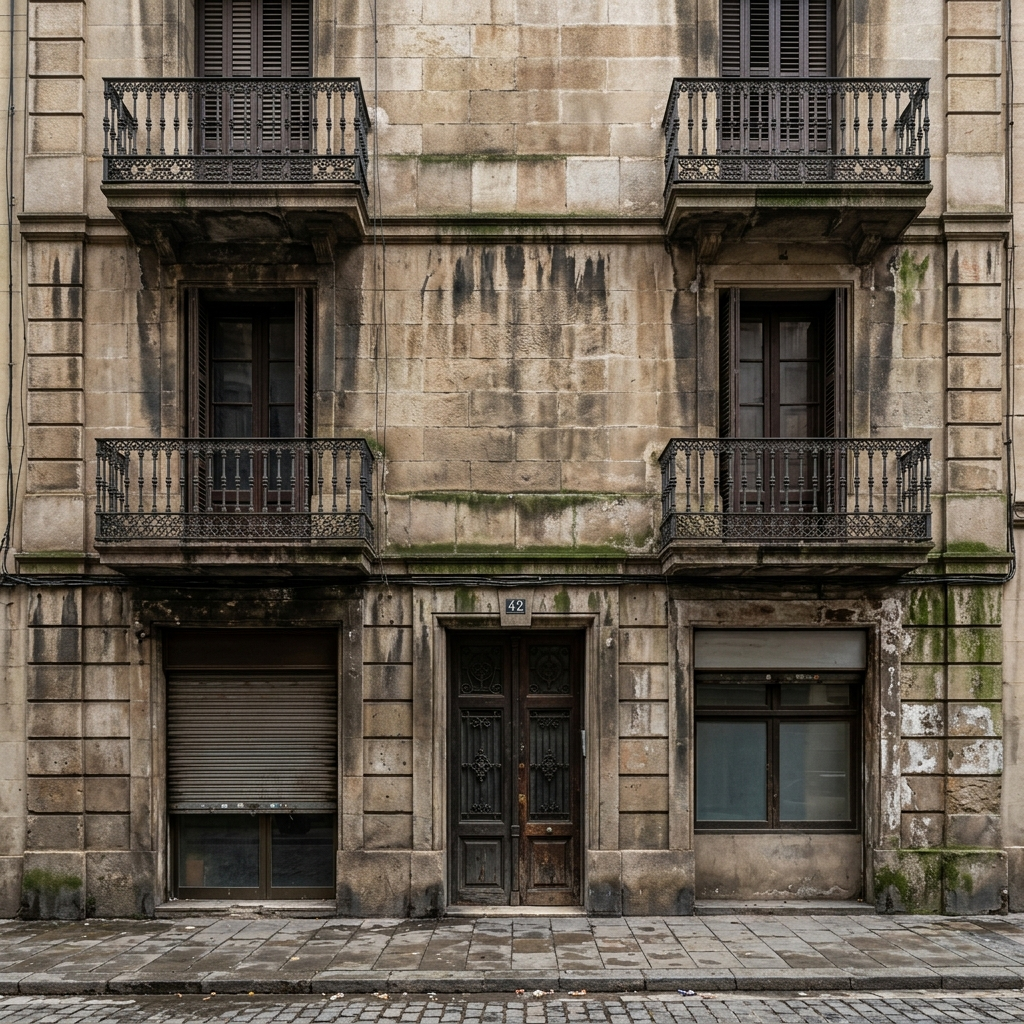
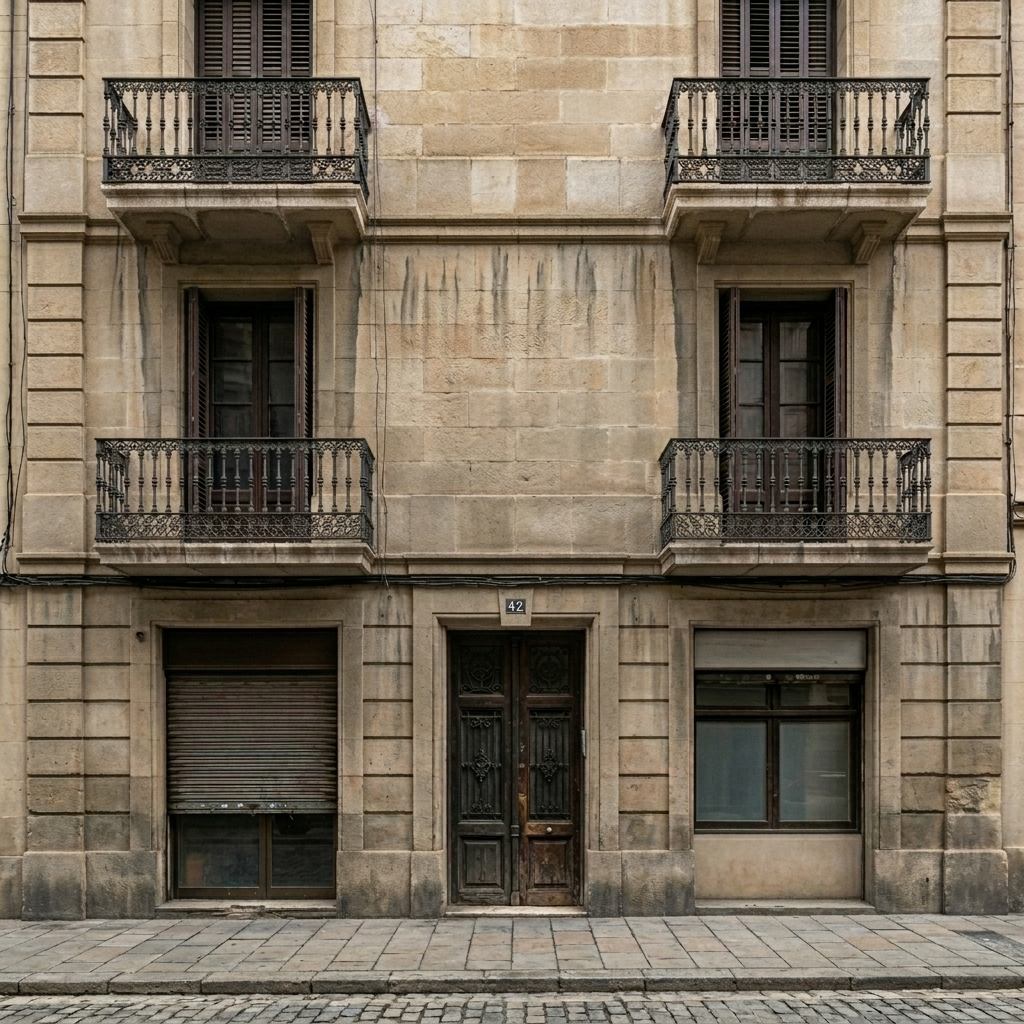
feat: hamburger movil, llamar gratis, hero imagen centrada movil, before/after scroll horizontal movil, fachada sin moho, quotes visuales, CTA overflow fix

diff --git a/src/routes/index.tsx b/src/routes/index.tsx
@@ -113,6 +113,8 @@ function Logo({ white = false }: { white?: boolean }) {
 
 function Nav() {
   const [scrolled, setScrolled] = useState(false);
+  const [mobileOpen, setMobileOpen] = useState(false);
+
   useEffect(() => {
     const onScroll = () => setScrolled(window.scrollY > 24);
     onScroll();
@@ -120,31 +122,79 @@ function Nav() {
     return () => window.removeEventListener("scroll", onScroll);
   }, []);
 
+  const navLinks = [
+    { href: "#servicios", label: "Servicios" },
+    { href: "#proyectos", label: "Proyectos" },
+    { href: "#proceso", label: "Proceso" },
+    { href: "#cobertura", label: "Cobertura" },
+    { href: "#contacto", label: "Contacto" },
+  ];
+
   return (
-    <header className={`fixed top-0 inset-x-0 z-50 transition-all duration-500 ${scrolled ? "bg-white/90 backdrop-blur-xl border-b border-border shadow-soft" : "bg-transparent"}`}>
-      <div className="max-w-7xl mx-auto px-6 lg:px-10 h-20 flex items-center justify-between">
-        <a href="#top">
-          <Logo white={!scrolled} />
-        </a>
-        <nav className={`hidden md:flex items-center gap-9 text-sm font-semibold ${scrolled ? "text-ink" : "text-white"}`}>
-          <a href="#servicios" className="hover:text-electric transition-colors">Servicios</a>
-          <a href="#proyectos" className="hover:text-electric transition-colors">Proyectos</a>
-          <a href="#proceso" className="hover:text-electric transition-colors">Proceso</a>
-          <a href="#cobertura" className="hover:text-electric transition-colors">Cobertura</a>
-          <a href="#contacto" className="hover:text-electric transition-colors">Contacto</a>
-        </nav>
-        {/* Always solid blue CTA button */}
-        <a
-          href={PHONE_HREF}
-          className="hidden sm:inline-flex items-center gap-2 pl-4 pr-5 h-11 rounded-full bg-electric text-white text-sm font-bold shadow-glow hover:shadow-elev hover:-translate-y-0.5 transition-all"
-        >
-          <span className="w-7 h-7 rounded-full bg-white/20 grid place-items-center">
-            <svg width="13" height="13" viewBox="0 0 24 24" fill="none" stroke="currentColor" strokeWidth="2.5" strokeLinecap="round" strokeLinejoin="round"><path d="M22 16.92v3a2 2 0 0 1-2.18 2 19.86 19.86 0 0 1-8.63-3.07 19.5 19.5 0 0 1-6-6A19.86 19.86 0 0 1 2.12 4.18 2 2 0 0 1 4.11 2h3a2 2 0 0 1 2 1.72c.13.96.36 1.9.7 2.81a2 2 0 0 1-.45 2.11L8.09 9.91a16 16 0 0 0 6 6l1.27-1.27a2 2 0 0 1 2.11-.45c.91.34 1.85.57 2.81.7A2 2 0 0 1 22 16.92Z" /></svg>
-          </span>
-          Llamar ahora
-        </a>
-      </div>
-    </header>
+    <>
+      <header className={`fixed top-0 inset-x-0 z-50 transition-all duration-500 ${scrolled || mobileOpen ? "bg-white/95 backdrop-blur-xl border-b border-border shadow-soft" : "bg-transparent"}`}>
+        <div className="max-w-7xl mx-auto px-5 lg:px-10 h-18 md:h-20 flex items-center justify-between gap-4">
+          <a href="#top" onClick={() => setMobileOpen(false)}>
+            <Logo white={!scrolled && !mobileOpen} />
+          </a>
+
+          {/* Desktop nav */}
+          <nav className={`hidden md:flex items-center gap-9 text-sm font-semibold ${scrolled ? "text-ink" : "text-white"}`}>
+            {navLinks.map(l => (
+              <a key={l.href} href={l.href} className="hover:text-electric transition-colors">{l.label}</a>
+            ))}
+          </nav>
+
+          <div className="flex items-center gap-3">
+            {/* CTA */}
+            <a
+              href={PHONE_HREF}
+              className="inline-flex items-center gap-2 pl-3.5 pr-4 h-10 md:h-11 rounded-full bg-electric text-white text-sm font-bold shadow-glow hover:shadow-elev hover:-translate-y-0.5 transition-all"
+            >
+              <span className="w-6 h-6 rounded-full bg-white/20 grid place-items-center">
+                <svg width="12" height="12" viewBox="0 0 24 24" fill="none" stroke="currentColor" strokeWidth="2.5" strokeLinecap="round" strokeLinejoin="round"><path d="M22 16.92v3a2 2 0 0 1-2.18 2 19.86 19.86 0 0 1-8.63-3.07 19.5 19.5 0 0 1-6-6A19.86 19.86 0 0 1 2.12 4.18 2 2 0 0 1 4.11 2h3a2 2 0 0 1 2 1.72c.13.96.36 1.9.7 2.81a2 2 0 0 1-.45 2.11L8.09 9.91a16 16 0 0 0 6 6l1.27-1.27a2 2 0 0 1 2.11-.45c.91.34 1.85.57 2.81.7A2 2 0 0 1 22 16.92Z" /></svg>
+              </span>
+              <span className="hidden sm:inline">Llamar gratis</span>
+              <span className="sm:hidden">Llamar</span>
+            </a>
+
+            {/* Hamburger — mobile only */}
+            <button
+              onClick={() => setMobileOpen(o => !o)}
+              aria-label="Abrir menú"
+              className={`md:hidden flex flex-col justify-center items-center w-10 h-10 rounded-xl gap-1.5 transition-all ${scrolled || mobileOpen ? "bg-mist" : "bg-white/15 backdrop-blur-sm"}`}
+            >
+              <span className={`block w-5 h-0.5 rounded-full transition-all duration-300 ${scrolled || mobileOpen ? "bg-navy" : "bg-white"} ${mobileOpen ? "rotate-45 translate-y-2" : ""}`} />
+              <span className={`block w-5 h-0.5 rounded-full transition-all duration-300 ${scrolled || mobileOpen ? "bg-navy" : "bg-white"} ${mobileOpen ? "opacity-0" : ""}`} />
+              <span className={`block w-5 h-0.5 rounded-full transition-all duration-300 ${scrolled || mobileOpen ? "bg-navy" : "bg-white"} ${mobileOpen ? "-rotate-45 -translate-y-2" : ""}`} />
+            </button>
+          </div>
+        </div>
+
+        {/* Mobile menu dropdown */}
+        <div className={`md:hidden overflow-hidden transition-all duration-400 ease-in-out ${mobileOpen ? "max-h-80 border-t border-border" : "max-h-0"}`}>
+          <nav className="flex flex-col bg-white px-5 py-4 gap-1">
+            {navLinks.map(l => (
+              <a
+                key={l.href}
+                href={l.href}
+                onClick={() => setMobileOpen(false)}
+                className="flex items-center gap-3 px-4 py-3.5 rounded-xl text-navy font-semibold text-base hover:bg-mist hover:text-electric transition-all"
+              >
+                {l.label}
+              </a>
+            ))}
+            <a
+              href={PHONE_HREF}
+              className="mt-2 flex items-center justify-center gap-2 h-12 rounded-xl bg-electric text-white font-bold shadow-glow"
+            >
+              <svg width="16" height="16" viewBox="0 0 24 24" fill="none" stroke="currentColor" strokeWidth="2.5" strokeLinecap="round" strokeLinejoin="round"><path d="M22 16.92v3a2 2 0 0 1-2.18 2 19.86 19.86 0 0 1-8.63-3.07 19.5 19.5 0 0 1-6-6A19.86 19.86 0 0 1 2.12 4.18 2 2 0 0 1 4.11 2h3a2 2 0 0 1 2 1.72c.13.96.36 1.9.7 2.81a2 2 0 0 1-.45 2.11L8.09 9.91a16 16 0 0 0 6 6l1.27-1.27a2 2 0 0 1 2.11-.45c.91.34 1.85.57 2.81.7A2 2 0 0 1 22 16.92Z" /></svg>
+              Llamar gratis · {PHONE}
+            </a>
+          </nav>
+        </div>
+      </header>
+    </>
   );
 }
 
@@ -152,7 +202,12 @@ function Hero() {
   return (
     <section id="top" className="relative min-h-[100svh] flex items-center overflow-hidden">
       <div className="absolute inset-0">
-        <img src={heroImg} alt="Operarios DISET en trabajos verticales sobre fachada de cristal en Barcelona" width={1920} height={1080} className="absolute inset-0 w-full h-full object-cover scale-105" />
+        <img
+          src={heroImg}
+          alt="Operarios DISET en trabajos verticales sobre fachada de cristal en Barcelona"
+          width={1920} height={1080}
+          className="absolute inset-0 w-full h-full object-cover object-[60%_center] md:object-center scale-105"
+        />
         <div className="absolute inset-0 bg-[linear-gradient(110deg,rgba(13,59,102,0.92)_0%,rgba(13,59,102,0.75)_45%,rgba(13,59,102,0.25)_100%)]" />
         <div className="absolute inset-0 bg-[radial-gradient(60%_60%_at_20%_50%,rgba(0,150,255,0.25),transparent_70%)]" />
       </div>
@@ -298,9 +353,38 @@ function BeforeAfterSection() {
           </p>
         </Reveal>
 
-        {/* Case selector tabs — visual cards */}
+        {/* Case selector tabs — mobile horizontal scroll, desktop grid */}
         <Reveal delay={80}>
-          <div className="grid grid-cols-3 gap-4 mb-8">
+          {/* Mobile: horizontal scroll row */}
+          <div className="flex md:hidden gap-3 mb-6 overflow-x-auto pb-2 scrollbar-none -mx-2 px-2">
+            {beforeAfterCases.map((c, i) => (
+              <button
+                key={c.label}
+                onClick={() => setActiveCase(i)}
+                className={`relative shrink-0 w-28 overflow-hidden rounded-xl border-2 transition-all duration-300 text-left group ${
+                  activeCase === i
+                    ? "border-electric shadow-glow scale-[1.02]"
+                    : "border-border hover:border-electric/40"
+                }`}
+              >
+                <div className="aspect-[3/4] overflow-hidden">
+                  <img src={c.after} alt={c.label} className={`w-full h-full object-cover transition-transform duration-500 group-hover:scale-105 ${ activeCase === i ? "brightness-100" : "brightness-75" }`} />
+                </div>
+                <div className="absolute inset-0 flex flex-col justify-end p-2 bg-gradient-to-t from-navy/90 via-navy/30 to-transparent">
+                  <div className="text-white font-extrabold text-xs leading-tight">{c.label}</div>
+                  <div className="text-white/70 text-[10px] mt-0.5 leading-tight">{c.desc}</div>
+                </div>
+                {activeCase === i && (
+                  <div className="absolute top-1.5 right-1.5 w-5 h-5 rounded-full bg-electric grid place-items-center">
+                    <svg width="10" height="10" viewBox="0 0 24 24" fill="none" stroke="white" strokeWidth="3"><path d="M20 6 9 17l-5-5"/></svg>
+                  </div>
+                )}
+              </button>
+            ))}
+          </div>
+
+          {/* Desktop: 3-col grid */}
+          <div className="hidden md:grid grid-cols-3 gap-4 mb-8">
             {beforeAfterCases.map((c, i) => (
               <button
                 key={c.label}
@@ -312,17 +396,11 @@ function BeforeAfterSection() {
                 }`}
               >
                 <div className="aspect-[4/3] overflow-hidden">
-                  <img
-                    src={c.after}
-                    alt={c.label}
-                    className={`w-full h-full object-cover transition-transform duration-500 group-hover:scale-105 ${
-                      activeCase === i ? "brightness-100" : "brightness-75"
-                    }`}
-                  />
+                  <img src={c.after} alt={c.label} className={`w-full h-full object-cover transition-transform duration-500 group-hover:scale-105 ${ activeCase === i ? "brightness-100" : "brightness-75" }`} />
                 </div>
-                <div className={`absolute inset-0 flex flex-col justify-end p-3 bg-gradient-to-t from-navy/80 via-navy/20 to-transparent`}>
-                  <div className={`text-sm font-extrabold ${activeCase === i ? "text-white" : "text-white/90"}`}>{c.label}</div>
-                  <div className="text-xs text-white/60">{c.desc}</div>
+                <div className="absolute inset-0 flex flex-col justify-end p-4 bg-gradient-to-t from-navy/80 via-navy/20 to-transparent">
+                  <div className={`text-base font-extrabold ${activeCase === i ? "text-white" : "text-white/90"}`}>{c.label}</div>
+                  <div className="text-sm text-white/70 mt-0.5">{c.desc}</div>
                 </div>
                 {activeCase === i && (
                   <div className="absolute top-2 right-2 w-6 h-6 rounded-full bg-electric grid place-items-center">
@@ -522,11 +600,11 @@ function Testimonials() {
                   ))}
                 </div>
                 {/* Large decorative quote */}
-                <div className="text-6xl leading-none text-electric/20 font-serif mb-2" aria-hidden>"</div>
-                <p className="text-base leading-relaxed text-ink flex-1">{t.quote}</p>
+                <div className="text-6xl leading-none font-bold mb-3" style={{ color: '#0096FF', opacity: 0.25 }} aria-hidden>❝</div>
+                <p className="text-lg leading-relaxed text-ink flex-1">{t.quote}</p>
                 <div className="mt-8 pt-5 border-t border-border">
                   <div className="font-extrabold text-navy">{t.name}</div>
-                  <div className="text-sm text-muted-foreground mt-0.5">{t.role}</div>
+                  <div className="text-sm text-slate-500 mt-0.5">{t.role}</div>
                 </div>
               </article>
             </Reveal>
@@ -689,23 +767,23 @@ function ContactForm({ light = false }: { light?: boolean }) {
 function CTA() {
 
   return (
-    <section id="contacto" className="py-24 lg:py-32 relative overflow-hidden bg-[#0a1628]">
+    <section id="contacto" className="py-20 lg:py-32 relative overflow-hidden bg-[#0a1628]">
       {/* Subtle background accents */}
       <div className="absolute top-0 right-0 w-[600px] h-[600px] rounded-full bg-electric/10 blur-[120px] pointer-events-none" />
       <div className="absolute bottom-0 left-0 w-[400px] h-[400px] rounded-full bg-navy/60 blur-[100px] pointer-events-none" />
 
-      <div className="relative max-w-7xl mx-auto px-6 lg:px-10">
-        <div className="grid lg:grid-cols-2 gap-12 lg:gap-20 items-start">
+      <div className="relative max-w-7xl mx-auto px-5 lg:px-10">
+        <div className="grid lg:grid-cols-2 gap-10 lg:gap-20 items-start">
 
           {/* Left: headline + contact info */}
           <Reveal>
             <span className="inline-flex items-center gap-2 px-4 py-1.5 rounded-full bg-electric/15 border border-electric/30 text-xs font-semibold tracking-wider uppercase text-electric">
               <span className="w-2 h-2 rounded-full bg-electric animate-pulse" /> Respuesta en menos de 24h
             </span>
-            <h2 className="mt-6 text-4xl md:text-5xl lg:text-6xl font-extrabold text-white leading-[1.05]">
+            <h2 className="mt-6 text-4xl md:text-5xl lg:text-6xl font-extrabold text-white leading-[1.05] break-words">
               Solicite su presupuesto <span className="text-electric">gratuito.</span>
             </h2>
-            <p className="mt-6 text-white/70 leading-relaxed text-lg">
+            <p className="mt-6 text-white/80 leading-relaxed text-base lg:text-lg">
               Un técnico especializado revisará su caso y le enviará una propuesta cerrada, sin costes ocultos ni compromisos.
             </p>
 